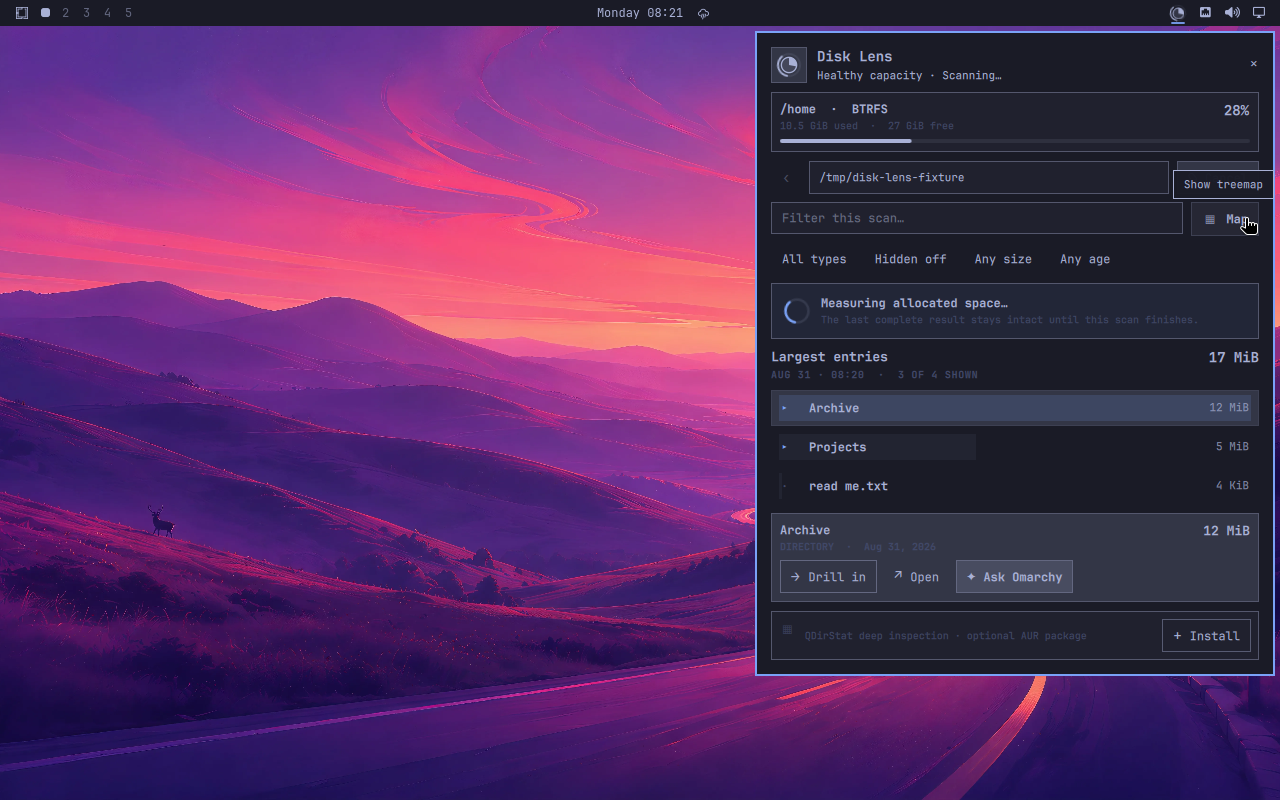
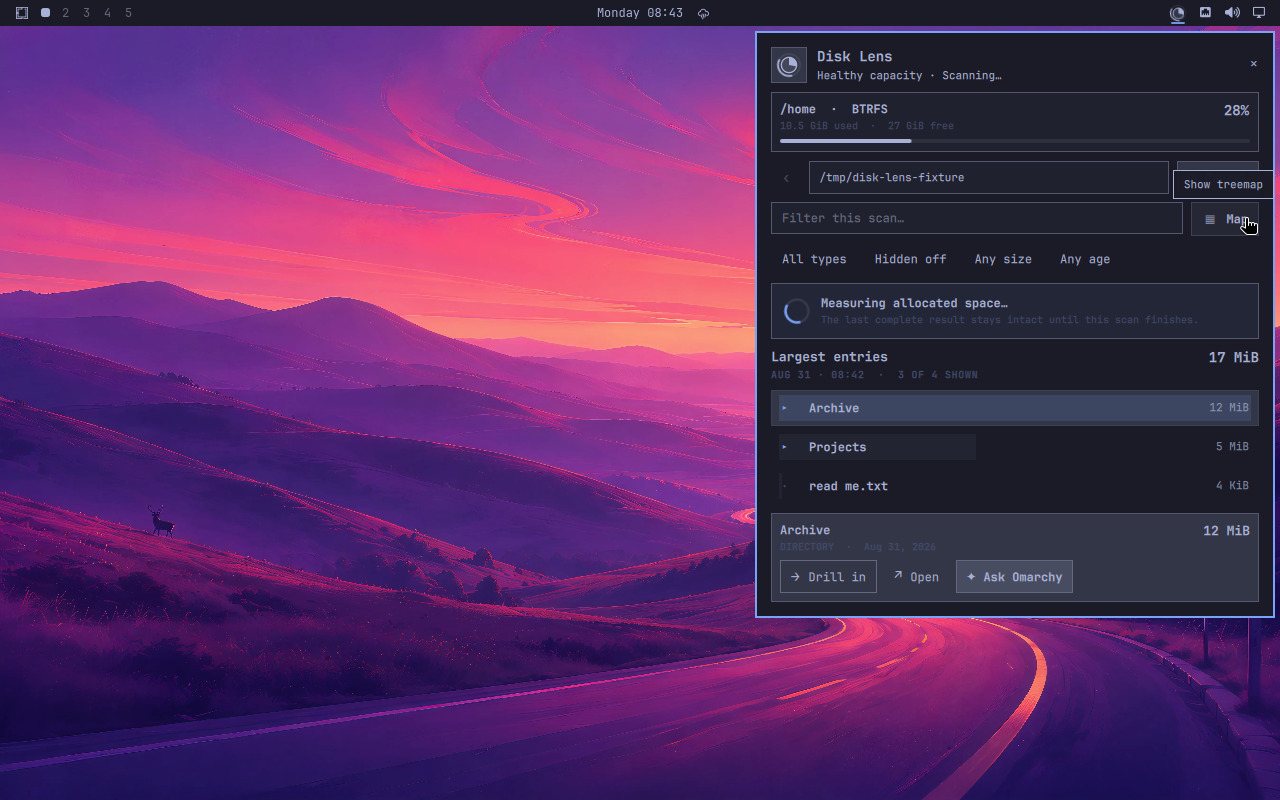
Refresh native Disk Lens showcase

Changed region(s): [[0.5625, 0.75, 1.0, 0.8438]]

diff --git a/docs/RELEASE-EVIDENCE.md b/docs/RELEASE-EVIDENCE.md
@@ -7,12 +7,12 @@ This record describes the strongest verified `0.4.0` development milestone. It i
 - Manifest: `io.github.mtolhuys.disk-lens` version `0.4.0`
 - Service identity: `disk-lens-service-v0400`
 - Widget identity: `disk-lens-widget-v0400`
-- Accepted repository candidate: pending final Plugin Lab acceptance
+- Accepted repository candidate: `dfabca91e702d01c51bd5c009e52ce6606548b40`
 - Omarchy base revision: `83881e979b35468c3e7d60b171e319ede61a88fd`
 - Plugin Lab base revision: `259ef26e9909bd74323177d2d29e2007cf8c73db`
 - Omarchy ISO harness revision: `268bac16d351a21d867e37565738f458b11cb06c`
 - ISO/base identity: `omarchy-2026.08.27-x86_64-local`, verified official ISO checksum, reusable clean base plus a fresh per-run overlay
-- README showcase: pending current native-only captures and deterministic rebuild
[1 lines of base64/hex data omitted]
 
 ## Required commands
 
@@ -26,9 +26,34 @@ cd "$OMARCHY_PLUGIN_LAB_ROOT"
 ./bin/lab plugin /absolute/path/to/omarchy-disk-lens/tests/lab/acceptance.sh
 ```
 
-## Current proof target
+## Timestamped disposable-guest evidence
 
-The final record must name one exact clean candidate and timestamped disposable-guest run proving public `make update`, loaded identities, real pointer routing, first use, scanning activity, exact synthetic totals, treemap, filtered list, agent hand-off, light/dark themes, cancellation, partial/long/empty states, same-path update, disable/re-enable/remove, preserved synthetic files, and clean teardown.
+| Run id | Result | Scope |
+| --- | --- | --- |
+| `20260831-084135` | green | exact clean candidate `dfabca9`: public `make update`, interrupted-add recovery, loaded `v0400` identities, real pointer-opened compact UI, synthetic scanning and filtering, visible activity indicator, agent hand-off, light/dark themes, cancellation, partial/long/empty states, same-path update, disable/re-enable/remove, preserved fixture, and clean teardown |
+
+Run artifacts remain under the Plugin Lab evidence root. Selected synthetic screenshots were copied into `docs/media` under [`SCREENSHOTS.md`](SCREENSHOTS.md).
+
+## Machine assertions passed
+
+- Source tests and Omarchy manifest validation ran before the guest development install; ShellCheck ran because it was available.
+- The public `make update` target recovered a valid checkout left disabled by an interrupted add, then verified the installed snapshot and source-derived identities.
+- Registry, service IPC, and widget IPC agreed on enabled state and `v0400` identities.
+- Real bar geometry exposed one square proportional capacity pie; a QMP pointer opened the host-owned panel.
+- Opening the panel did not scan. Explicit scan and rendered refresh published the exact synthetic scope, four stored entries, three visible entries, and more than 19 MB of allocated data.
+- Treemap selection, ranked-list switching, typed search, and clear controls updated one canonical model.
+- The selected-directory action dispatched the exact synthetic path and measured allocation through `omarchy agent prompt`; the captured argument required read-only inspection and confirmation before change.
+- A live scan exposed literal and machine-visible activity, then rendered cancellation preserved the last completed result and left no scanner process.
+- Permission denial yielded an explicit usable partial result; long and empty scopes remained distinct and recoverable.
+- Maintained light and dark themes preserved state without compositor errors.
+- A public same-path update replaced both runtime identities. Disable unloaded both entry points, re-enable restored one of each, and removal preserved synthetic files.
+- Final compositor configuration and targeted shell logs were clean.
+
+## Visual and media review
+
+The first-use, active-scan, ready-treemap, filtered-list, selected-folder agent, light-theme, cancelled, partial, long-scope, empty, and removed checkpoints were reviewed from synthetic `1280×800` captures. The native panel is visibly shorter without a dependency row or secondary-app action.
+
+The README product tour was built twice from the current five captures. Both builds produced the recorded 147-frame hash. Five representative frames were inspected at original `1000×563` resolution; hierarchy, screenshot crops, progress markers, native filter finale, and agent action remained legible without implying automatic scanning, cleanup, privilege, package installation, or hard agent sandboxing.
 
 ## Deliberate limitations
 

diff --git a/docs/SCREENSHOTS.md b/docs/SCREENSHOTS.md
@@ -15,7 +15,7 @@ The GIF presents five truthful native scenes: capacity at a glance, explicit sca
 
 ## Current provenance
 
-The source captures come from the latest green `0.4.0` Plugin Lab product scenario recorded in [`RELEASE-EVIDENCE.md`](RELEASE-EVIDENCE.md). Source captures are `1280×800`; exact showcase dimensions, frames, bytes, hash, and consecutive-build check are recorded there after generation.
[1 lines of base64/hex data omitted]
 
 Rebuild the deterministic derivative with:
 
